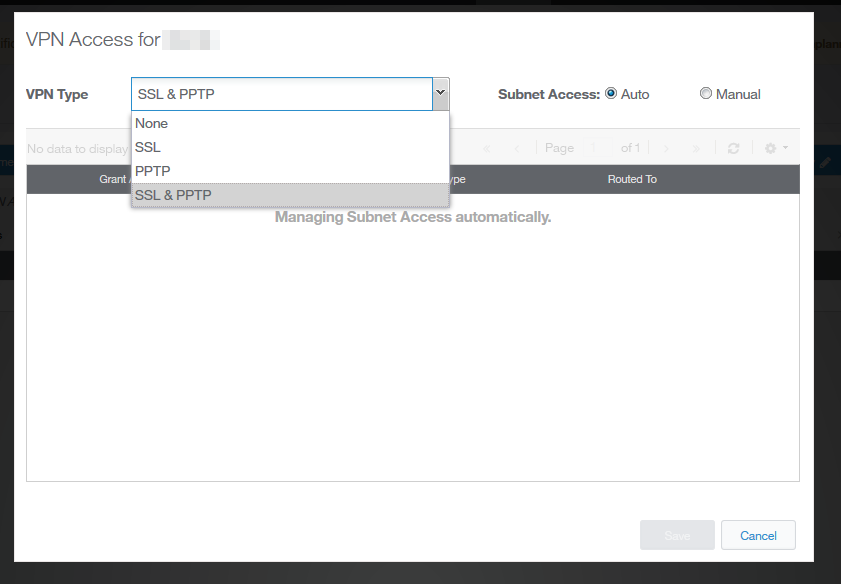
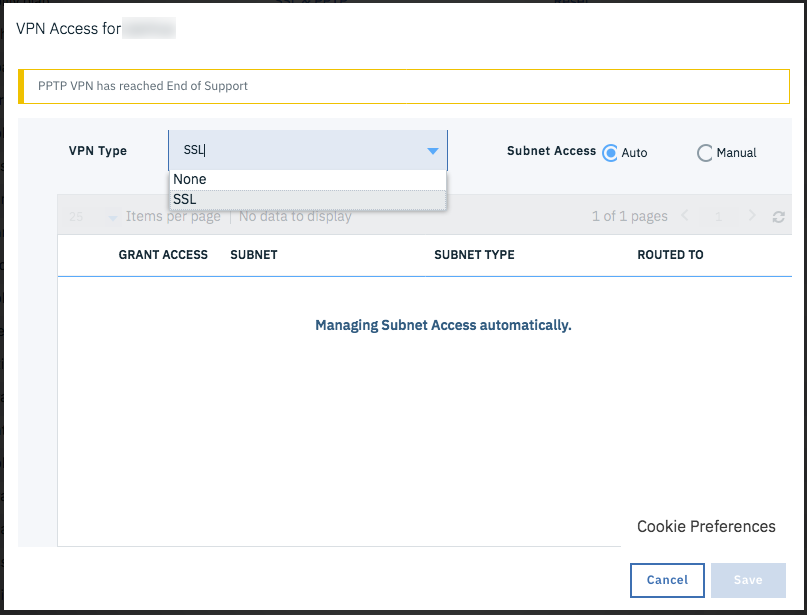
removing PPTP

Changed region(s): [[0.0, 0.0, 1.0, 1.0], [0.3717, 0.524, 0.7125, 0.5548], [0.7745, 0.4007, 0.8674, 0.4315]]

diff --git a/about-vpn.md b/about-vpn.md
@@ -1,7 +1,7 @@
 ---
 copyright:
   years: 1994, 2017
-lastupdated: "2017-12-01"
+lastupdated: "2018-10-16"
 ---
 
 {:shortdesc: .shortdesc}
@@ -11,7 +11,7 @@ lastupdated: "2017-12-01"
 
 VPN access enables you to manage all servers and services associated with your account, remotely, over the IBM Cloud private network. A VPN connection from your location to the private network allows **out-of-band management and server rescue** through an encrypted VPN tunnel.
 
-Communicating using the private network is inherently more secure. It gives you the flexibility to limit public access while still being able to manage your servers. Any user on your account can be given VPN access, which is available as both SSL and PPTP. VPN interactions through the [Customer Portal ![External link icon](../../icons/launch-glyph.svg "External link icon")](https://control.softlayer.com/) allow for VPN access customization at the user level.
+Communicating using the private network is inherently more secure. It gives you the flexibility to limit public access while still being able to manage your servers. Any user on your account can be given VPN access, which is available as SSL. VPN interactions through the [Customer Portal ![External link icon](../../icons/launch-glyph.svg "External link icon")](https://control.softlayer.com/) allow for VPN access customization at the user level.
 
 ## What are some ways to use the SSL VPN?
 
@@ -28,14 +28,13 @@ This out-of-band secure gateway gives you access to your server over the private
 ## Key Features
 
  * Our private network gives you a cost-free way to communicate with and manage servers. The VPN is the gateway to this private network.
- * We offer SSL VPN and PPTP VPN options.
  * Access points throughout the world create the best and quickest access and interaction possible. IBM Cloud currently has VPN access points in many cities.
  * Visit http://www.softlayer.com/vpn-access for a list of VPN access points to the {{site.data.keyword.BluSoftlayer_notm}} private network.
 
 ## How it Works
 
-With VPN access, the are two ways to connect with the private network and manage your server and services. These options include SSL and PPTP VPN connections. Connect to the private network using either method, based on your individual needs or preferences.
- 
+With VPN access, use SSL to connect with the private network and manage your server and services. 
+
 ## SSL VPN Connections
 
 SSL VPN is a quick-access connection that connects you to our private network directly from a browser. The SSL VPN is compatible with Windows XP or higher and ActiveX, Fedora, Ubuntu, and Mac OSX. Global access to our private network is available at a single URL, which allows you to choose the nearest VPN endpoint.
@@ -43,7 +42,3 @@ SSL VPN is a quick-access connection that connects you to our private network di
 ## SSL VPN Subnet Limit
 
 The SSL VPN client has a hard 64-subnet limit that it can use to populate its routing table. If your account has more than 64 subnets, make sure that you modify your SSL VPN permissions to use manual subnet assignment. If you do not, some subnets can become unreachable through the SSL VPN.
-
-## PPTP VPN Connections
-
-PPTP VPN allows you to connect to the private network securely, using OS-specific client software from your desktop or using a dedicated device such as a firewall or router. We currently provide VPN connectivity for Windows XP or higher, Fedora, Ubuntu, and Mac OSX. The PPTP connection option is designed for those looking to connect an entire office, or who cannot connect using the SSL VPN option. PPTP connections are established with a single datacenter that may be chosen when the VPN connection is set up.

diff --git a/set-up-ipsec-vpn.md b/set-up-ipsec-vpn.md
@@ -1,7 +1,7 @@
 ---
 copyright:
   years: 1994, 2017
-lastupdated: "2017-11-01"
+lastupdated: "2018-10-16"
 ---
 
 {:shortdesc: .shortdesc}
@@ -16,9 +16,9 @@ IPSec is a suite of protocols designed to authenticate and encrypt all IP traffi
 
 IBM Cloud's VPN access allows users to manage all servers remotely and securely over IBM Cloud's private network.  A VPN connection from your location to the private network gives you the capability for out-of-band management and server rescue through an encrypted VPN tunnel.  With VPN access, you can:
 
-   -Establish a VPN connection to the private network via SSL, PPTP or IPSEC
-   -Access your server via its private 10.x.x.x IP address via SSH or RDP
-   -Connect to your server’s IPMI IP address for additional server management or rescue needs.
+   * Establish a VPN connection to the private network via SSL or IPSEC
+   * Access your server via its private 10.x.x.x IP address via SSH or RDP
+   * Connect to your server’s IPMI IP address for additional server management or rescue needs.
 
 We provide the IPSec service to customers for management of their environments. It is not recommended for production workloads.
 
@@ -40,14 +40,12 @@ You will need to know the following information for the remote side of the IPSec
 Once you have this information available, you can configure the basic negotiation parameters of the VPN connection.
 
 ### Protected Networks
-![Protected Networks](http://14bc7.http.dal05.cdn.softlayer.net/images/protected_networks.png)
 
 In the VPN connection properties, you must define the networks on the remote end of the tunnel as well as the local networks for the tunnel. In the “Protected Customer (Remote) Subnet”, enter the private IP address space in CIDR notation for the remote (Non-IBM) end of the IPSec tunnel.
 
 <span style="text-decoration: underline">For example:</span>  If your network on the remote end of the tunnel uses a single subnet 10.0.0.0 with a netmask of 255.255.255.0, you would enter IP Address 10.0.0.0 / CIDR 24 for the “Protected Customer (Remote) Subnet” section.
 
 ### Network Address Translation (NAT)
-![Network Address Translation](http://14bc7.http.dal05.cdn.softlayer.net/images/nat.png)
 
 With the IPSec VPN, you also are allowed to define Private IP addresses on the {{site.data.keyword.BluSoftlayer_notm}} network that will route traffic to remote subnets on the other end of the VPN connection.  This allows you to have Private Internet traffic forwarded to one of your internal IP addresses of a machine behind your VPN, without exposing the remote location to full Internet access.  
 

diff --git a/getting-started.md b/getting-started.md
@@ -1,7 +1,7 @@
 ---
 copyright:
   years: 1994, 2017, 2018
-lastupdated: "2018-09-06"
+lastupdated: "2018-10-16"
 ---
 
 {:shortdesc: .shortdesc}
@@ -13,7 +13,7 @@ lastupdated: "2018-09-06"
 
 VPN access enables users to manage all servers remotely and securely over the IBM Cloud private network. A VPN connection from your location to the private network allows out-of-band management and server rescue through an encrypted VPN tunnel. With VPN access, you can:
 
-* Establish a VPN connection to the private network by SSL, PPTP, or IPSec.
+* Establish a VPN connection to the private network by SSL, or IPSec.
 * Access your server through its private 10.x.x.x IP address by SSH or RDP.
 * Connect to your server’s IPMI IP address for additional server management or rescue needs.
 
@@ -30,13 +30,12 @@ To get started, you'll need to enable VPN access on each account that needs VPN 
 1. Go to **Account -> VPN Access** in the [Customer Portal ![External link icon](../../icons/launch-glyph.svg "External link icon")](https://control.softlayer.com/).
 * There you'll find the row for each possible VPN user and a link under the **VPN Access** column.
 * The link will read "None" if the user does not yet have VPN access enabled.
-* If the user's VPN access link reads **SSL, PPTP, or SSL & PPTP** that means that the user already has had their VPN access enabled.
+* If the user's VPN access link reads **SSL**, that means that the user already has had their VPN access enabled.
 
 ![Softlayer Portal VPN Access table](images/vpnaccess01.png)
 
 1. To enable or change the VPN access types permitted for a specific user, click the link under the **VPN Access** column.
 * In the next page you can enable the VPN access type appropriate for each user.  
-* By default, only one user can have PPTP VPN access. Should your account require more than one PPTP VPN user, please contact our Support Team via Live Chat, the Ticket System or by phone to enable unlimited PPTP VPN users at no cost.
 
 ![Assign VPN type access to a user](images/vpntype01.png)
 
@@ -57,4 +56,3 @@ Now that the VPN access has been established, you can log in.
 1. To log into the SSL VPN, visit [vpn.softlayer.com](https://vpn.softlayer.com/) and select any of the login points. You can use any VPN access point, and you are given the same access permissions to the private network in all the datacenters.
 * If you have trouble logging into one location, try another location.
 * Alternatively, you can log in using a standalone client SSL VPN.
-* You'll be able to use the standard OS utilities to log in to the PPTP VPN.

diff --git a/ssl-pptp-vpn-faqs.md b/ssl-pptp-vpn-faqs.md
@@ -1,7 +1,7 @@
 ---
 copyright:
   years: 1994, 2017, 2018
-lastupdated: "2018-01-24"
+lastupdated: "2018-10-16"
 ---
 
 {:shortdesc: .shortdesc}
@@ -41,11 +41,6 @@ Our SSL VPN gateway is a security product from Array Networks.  The gateway itse
 **SSL VPN** allows a user to create a secure tunnel from the remote desktop to the {{site.data.keyword.BluSoftlayer_notm}} Private Network. It is compatible with a variety of operating systems.
 
 **PPTP VPN** allows the same secure tunnel but connects using specialized client software on a user's desktop or dedicated device. However, PPTP is deprecated. See [PPTP VPN Deprecation](pptp-deprecation.html) for more information.
-
-## When I connect to the PPTP VPN, it states "Error 691: Access was denied because the username and/or password is invalid." How do I fix this problem?
-
-All users have the ability to connect to the PPTP VPN, but must have permission to log in through the Customer Portal.  PPTP VPN permissions are easily verified and updated quickly.  Refer to [Activate or Deactivate PPTP VPN Access](activate-a-user.html) for more information. However, PPTP is deprecated. See [PPTP VPN Deprecation](pptp-deprecation.html) for more information.
-
 
 ## Why am I unable to add additional users for PPTP VPN?
 
